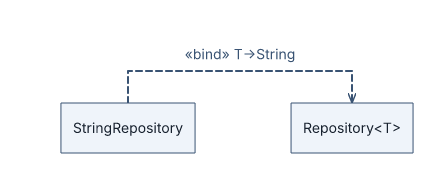
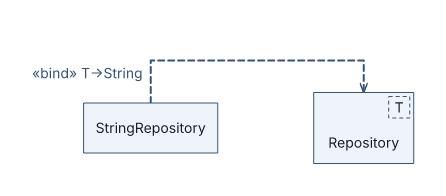
Render measured UML classifier template formals in dashed corner boxes

Changed region(s): [[0.0584, 0.2432, 0.9348, 0.8378]]

diff --git a/src/geometry/nodes.rs b/src/geometry/nodes.rs
@@ -22,6 +22,7 @@ pub struct RowStyle {
 pub struct BoxNode {
     pub id: String,
     pub label: String,
+    pub template: Option<String>,
     pub lines: Vec<String>,
     pub icons: Vec<String>,
     pub body: Vec<NodePart>,
@@ -206,7 +207,25 @@ pub fn measure_node(
         );
     }
     let padding = number(styles, &element, "padding", 12.0);
-    let name = node.label.clone().unwrap_or_else(|| node.id.clone());
+    let mut name = node.label.clone().unwrap_or_else(|| node.id.clone());
+    let template = if diagram_type == DiagramType::Class
+        && node.kind == NodeKind::Class
+        && !node.templates.is_empty()
+    {
+        if !ports.is_empty() {
+            return Err(
+                "UML template corner and boundary ports need separate collision geometry".into(),
+            );
+        }
+        let suffix = format!("<{}>", node.templates.join(", "));
+        name = name
+            .strip_suffix(&suffix)
+            .ok_or("template heading does not match parameters")?
+            .into();
+        Some(node.templates.join(", "))
+    } else {
+        None
+    };
     let name = match node.visibility {
         Some(marker) if visibility_icon.is_none() => format!("{marker}{name}"),
         _ => name,
@@ -295,6 +314,9 @@ pub fn measure_node(
     for port in &ports {
         longest = longest.max(measure(&port.label, font_size)? + 16.0);
     }
+    if let Some(parameters) = &template {
+        longest = longest.max(measure(parameters, font_size)? + 16.0);
+    }
     for side in [PortSide::Top, PortSide::Bottom] {
         let mut count = 0;
         let mut widest: f64 = 0.0;
@@ -310,6 +332,8 @@ pub fn measure_node(
     }
     let top_band = if ports.iter().any(|port| port.side == PortSide::Top) {
         line_height + 8.0
+    } else if template.is_some() {
+        line_height + 12.0
     } else {
         0.0
     };
@@ -422,6 +446,7 @@ pub fn measure_node(
     Ok(BoxNode {
         id: node.id.clone(),
         label,
+        template,
         lines,
         icons,
         body,

diff --git a/src/svg.rs b/src/svg.rs
@@ -276,14 +276,23 @@ fn render_svg(boxes: &[BoxNode], routes: &[Route], mode: TextMode) -> Result<Str
                 node.x,node.y,node.width,node.height,node.radius,node.fill,node.border_color,node.border_width).unwrap();
         }
         let line_height = node.font_size * 1.25;
-        let first_baseline =
-            if node.body.is_empty() && node.ports.is_empty() && node.kind != NodeKind::Package {
-                node.y
-                    + (node.height - line_height * node.lines.len() as f64) / 2.0
-                    + line_height * 0.78
-            } else {
-                node.y + node.padding + node.top_band + line_height * 0.78
-            };
+        if let Some(parameters) = &node.template {
+            let width = measure(parameters, node.font_size)? + 12.0;
+            let x = node.x + node.width - width - 4.0;
+            writeln!(svg,"<rect x=\"{x:.2}\" y=\"{:.2}\" width=\"{width:.2}\" height=\"{:.2}\" fill=\"{}\" stroke=\"{}\" stroke-dasharray=\"4 3\" />",node.y+4.0,line_height+4.0,node.fill,node.border_color).unwrap();
+            writeln!(svg,"<text x=\"{:.2}\" y=\"{:.2}\" font-family=\"Inter\" font-size=\"{:.2}\" fill=\"{}\">{}</text>",x+6.0,node.y+6.0+node.font_size,node.font_size,node.color,escape(parameters)).unwrap();
+        }
+        let first_baseline = if node.body.is_empty()
+            && node.ports.is_empty()
+            && node.template.is_none()
+            && node.kind != NodeKind::Package
+        {
+            node.y
+                + (node.height - line_height * node.lines.len() as f64) / 2.0
+                + line_height * 0.78
+        } else {
+            node.y + node.padding + node.top_band + line_height * 0.78
+        };
         for (i, line) in node.lines.iter().enumerate() {
             let baseline = first_baseline + line_height * i as f64;
             let last_with_icons = i + 1 == node.lines.len() && !node.icons.is_empty();

diff --git a/tests/class_object_v13.rs b/tests/class_object_v13.rs
@@ -90,7 +90,18 @@ fn compact_template_name_and_anonymous_instance_have_stable_ids() {
     let diagram = parse(template).unwrap();
     assert_eq!(diagram.nodes[0].id, "Repository");
     assert_eq!(diagram.nodes[0].templates, ["T"]);
-    assert!(image(template).contains("Repository&lt;T&gt;"));
+    let svg = image(template);
+    assert!(svg.contains(">Repository</text>"));
+    assert!(svg.contains(">T</text>"));
+    assert!(svg.contains("stroke-dasharray=\"4 3\""));
+    let generic = "semantics {\nclass Repository<T>\n}\n";
+    assert!(image(generic).contains("Repository&lt;T&gt;"));
+    let fixed =
+        format!("{template}styling {{\nnode[Repository] {{\nwidth: 40\nheight: 30\n}}\n}}\n");
+    let diagram = parse(&fixed).unwrap();
+    let sheet =
+        laml::styles::load(&diagram, std::path::Path::new("examples/architecture.laml")).unwrap();
+    assert!(place(&diagram, &sheet).is_err());
     for head in ["Repository<T, T>", "Repository<T>Suffix", "Repository<>"] {
         let source = format!("settings {{\ntype: class\n}}\nsemantics {{\nclass {head}\n}}\n");
         assert!(parse(&source).is_err(), "{head}");

diff --git a/src/route/labels.rs b/src/route/labels.rs
@@ -71,6 +71,7 @@ pub(super) fn segment_hits_rect(a: Point, b: Point, x: f64, y: f64, w: f64, h: f
     let node = BoxNode {
         id: String::new(),
         label: String::new(),
+        template: None,
         lines: Vec::new(),
         icons: Vec::new(),
         body: Vec::new(),

diff --git a/src/geometry/junctions.rs b/src/geometry/junctions.rs
@@ -61,6 +61,7 @@ pub(super) fn measure(node: &NodeDecl, sheet: &StyleSheet) -> Result<BoxNode, St
     Ok(BoxNode {
         id: node.id.clone(),
         label,
+        template: None,
         lines: Vec::new(),
         icons: Vec::new(),
         body: Vec::new(),

diff --git a/docs/v1.3-status.md b/docs/v1.3-status.md
@@ -8,7 +8,7 @@ Do not update Cargo version, tag, push or publish a v1.3 release until every rel
 - `style-classes=` replaces `classes=` in graph and sequence parsing, examples, tests and docs.
 - GNE named relation and sequence message `@id` syntax are accepted; old `name:` syntax still works as a temporary compatibility path until graph and sequence migration is complete.
 - LSS universal `*` selector is available at the lowest precedence. GNE `shape: rectangle|ellipse|diamond|note` is measured, routed to its visible contour and exported consistently; UML types reject shape overrides that alter their notation. Nonrectangular compartments still need a designed inset geometry and currently fail explicitly.
-- Graph `type: class|object` parsing, basic class/interface/enum/datatype/object nodes, compact `<T>` template headings (binding checks pending), explicitly named anonymous objects, source-ordered body rows and dividers, class attribute/operation compartment checks, object slots, folded multiline notes with dotted node/member attachment; globally explicit member-to-member edge attachments; undirected `--` plus the first checked UML operators (`-->`, `..>`, `--|>`, `..|>`, `*--`, `o--` and combinations); object diagrams reject class-only operators; basic UML multiplicities and roles at association ends are parsed, validated and collision-checked; selectable SVG body text, object underlining, enum/interface/datatype headings, PNG/PDF export from the same SVG, and undirected soft adjacency are present. See `tests/class_object_v13.rs` and the working drafts in `docs/drafts/`.
+- Graph `type: class|object` parsing, basic class/interface/enum/datatype/object nodes, UML dashed-corner template parameter boxes (GNE retains compact inline `<T>` headings), explicitly named anonymous objects, source-ordered body rows and dividers, class attribute/operation compartment checks, object slots, folded multiline notes with dotted node/member attachment; globally explicit member-to-member edge attachments; undirected `--` plus the first checked UML operators (`-->`, `..>`, `--|>`, `..|>`, `*--`, `o--` and combinations); object diagrams reject class-only operators; basic UML multiplicities and roles at association ends are parsed, validated and collision-checked; selectable SVG body text, object underlining, enum/interface/datatype headings, PNG/PDF export from the same SVG, and undirected soft adjacency are present. See `tests/class_object_v13.rs` and the working drafts in `docs/drafts/`.
 - Preexisting sequence and graph tests remain passing. Strict Clippy and rustfmt pass; actual release validation must be rerun after all changes.
 
 ## Validated additions since the preceding checkpoint
@@ -32,6 +32,6 @@ Do not update Cargo version, tag, push or publish a v1.3 release until every rel
 - Finish ID scoping and overload resolution across all declaration kinds. Sequence participants, named messages, notes, continuations and fragment IDs now share one validated namespace; execution IDs remain lifeline-scoped. Graph packages, members and named ports support qualified scoped defaults and diagram-wide explicit IDs.
 - Finish exact container obstacle/label clearance, nonrectangular port geometry, more complex relation-end side routing (e.g. self-loops and named member/port endpoints), advanced qualifier anchoring, complete UML association-end semantics, precise marker clearance/routing, and full UML validation of generalization, realization, dependency, navigability and whole/part diamonds. Do not mistake an implemented glyph for complete UML validation.
 - Finish UML classifier-specific shapes/ports, mandatory side and end-label layout rules, remaining visibility/abstract/static details with consistently embedded font faces, and a legal review of the export notice policy. Scoped `compartment[attributes|operations|literals] { display: none }` now hides rows and separators safely; visible references into hidden compartments fail. Basic GNE node icons, UML/GNE visibility glyph replacements and conditional Phosphor metadata are implemented and tested for SVG/PNG/PDF. Basic member, member[kind=...], member[ID], member.style-class and contextual LSS selectors now affect measured color/font-size and explicit member hiding; hidden anchored members fail rather than leaving dangling edges. Default member IDs can be targeted as `Node::member`, with ambiguous overloads rejected; explicitly aliased members have no hidden default alias.
-- Complete UML template classifier notation (inline `<T>` is a documented LAML simplification), package/enum/datatype special rules, complete object-link validation and UML restrictions. Relation-specific `interface-notation: lollipop` now replaces an unused empty interface with one ball per provider; a referenced box, members, hidden members, or another relation reject the compact form. Simple programming-style field/operation shorthand now normalizes to UML-visible `name: Type` and `name(parameters): ReturnType` (UML 2.5.1 §9.6.4); advanced UML parameter/property syntax and method abstractions still need full review and tests. Audit normative ambiguities (including mixed class/instance diagrams) before claiming standard compliance.
+- Finish UML template parameter kinds, defaults, aliases, and multi-line signature notation. The class diagram now places locally declared `<T>` source formals in a measured dashed corner box; GNE retains its inline source heading. Complete package/enum/datatype special rules, complete object-link validation and UML restrictions. Relation-specific `interface-notation: lollipop` now replaces an unused empty interface with one ball per provider; a referenced box, members, hidden members, or another relation reject the compact form. Simple programming-style field/operation shorthand now normalizes to UML-visible `name: Type` and `name(parameters): ReturnType` (UML 2.5.1 §9.6.4); advanced UML parameter/property syntax and method abstractions still need full review and tests. Audit normative ambiguities (including mixed class/instance diagrams) before claiming standard compliance.
 - Seven buildable examples and generated previews now cover classes, objects, n-ary associations, nested packages, template bindings, compact interfaces and optional generic icons; existing generic README previews were regenerated after the open-arrow change. README, language reference, language contract and the class/object guide describe the implemented subset; the all-target local suite and preview consistency check pass. Finish documentation review against all agreed semantics, add positive/negative end-to-end tests for remaining constructs, and check all four CI targets.
 - Only after complete local validation: bump version to `1.3.0`, commit, push from an authenticated shell when explicitly confirmed, verify four-platform CI, then tag/release and confirm assets. No remote publication has been attempted.

diff --git a/docs/class-object-diagrams.md b/docs/class-object-diagrams.md
@@ -39,7 +39,7 @@ Front modifiers `field`, `method`, `abstract`, and `static` may appear in any or
 
 A named relation can be styled using `relation[orders]`, have end-label sides fixed using `relation[orders].source : multiplicity=above; role=below` in `layout`, or have its actual boundary side fixed with `relation[orders].target : side=left`. The attributes can share a rule. A side rule requires a direct node endpoint (not a named member, port or self-loop); an impossible route fails. Named relations can also be the target of a dotted note attachment. A member explicitly named with `@kundenId` can be targeted by an edge. An unaliased member can be targeted as `Kunde::name`; ambiguous overloads fail. An `@id` replaces a default ID and is unique across explicitly named graph elements.
 
-`abstract class Dienst` displays `{abstract}` alongside an italic styling hint so the meaning remains visible without an italic font face. `interface`, `enum`, `datatype`, and `association class` have checked classifier notation. An association class attaches with `AssociationClass .. relation[relationId]` to one named, plain binary association. A n-ary association uses one small diamond (`association Verordnet`) and at least three distinct plain arms; its visible name stays beside, not inside, the diamond. An association class can instead attach directly by `facts .. Verordnet` to the named diamond; both displayed names must match. One association cannot own two association classes. See [the n-ary example](../examples/class-nary.laml). `class Repository<T>` displays a compact template heading; `StringRepository ..> Repository <<bind(T->String)>>` checks a locally declared parameter and draws its substitution. See [the binding example](../examples/class-binding.laml). The inline heading is LAML's compact notation rather than the full UML template corner box. A `relation[id]` style rule with `interface-notation: lollipop` is a relation-specific option for a named `Class ..|> Interface` realization: each provider draws its own labeled ball and solid stalk instead of showing the unused interface box. An interface with members, ports, another kind of relation, a mandatory layout rule referencing its box, or extra relation adornments fails. See [two compact realizations](../examples/class-lollipops.laml).
+`abstract class Dienst` displays `{abstract}` alongside an italic styling hint so the meaning remains visible without an italic font face. `interface`, `enum`, `datatype`, and `association class` have checked classifier notation. An association class attaches with `AssociationClass .. relation[relationId]` to one named, plain binary association. A n-ary association uses one small diamond (`association Verordnet`) and at least three distinct plain arms; its visible name stays beside, not inside, the diamond. An association class can instead attach directly by `facts .. Verordnet` to the named diamond; both displayed names must match. One association cannot own two association classes. See [the n-ary example](../examples/class-nary.laml). `class Repository<T>` displays a compact template heading; `StringRepository ..> Repository <<bind(T->String)>>` checks a locally declared parameter and draws its substitution. See [the binding example](../examples/class-binding.laml). `class Repository<T>` is shorthand in source; in a class diagram its formal parameter list appears in a measured dashed rectangle at the classifier's upper-right corner. Generic graphs still use an inline heading. A `relation[id]` style rule with `interface-notation: lollipop` is a relation-specific option for a named `Class ..|> Interface` realization: each provider draws its own labeled ball and solid stalk instead of showing the unused interface box. An interface with members, ports, another kind of relation, a mandatory layout rule referencing its box, or extra relation adornments fails. See [two compact realizations](../examples/class-lollipops.laml).
 
 Package blocks create containing frames and scoped IDs. Inside `package Vertrieb { ... }`, class `Kunde` has default ID `Vertrieb.Kunde`; nested members can be addressed as `Vertrieb.Kunde::name`. A top-level layout rule can use the qualified path, and cross-scope placement separates enclosing packages when necessary. See [nested packages](../examples/class-packages.laml). Fixed-size containers that cannot contain their children fail rather than clipping them.
 
